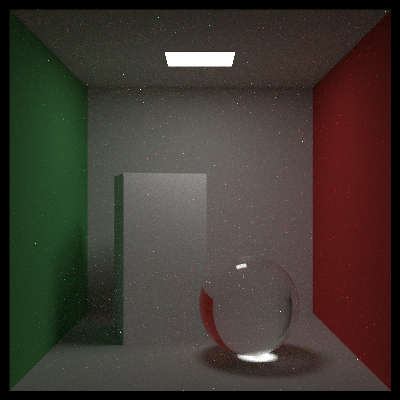
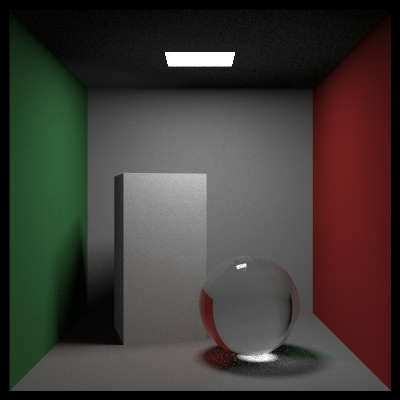
FINAL

diff --git a/RayTracer/src/main.rs b/RayTracer/src/main.rs
@@ -247,37 +247,37 @@ fn cornell_box() {
     // world.addlist(make_box(Point3::new(130.0, 0.0, 65.0), Point3::new(295.0, 165.0, 230.0), white.clone()));
     // world.addlist(make_box(Point3::new(265.0, 0.0, 295.0), Point3::new(430.0, 330.0, 460.0), white));
 
-    let aluminum = Some(Arc::new(material::Metal::new(Vec3::new(0.8, 0.85, 0.88), 0.0)) as Arc<dyn Material + Send + Sync>);
-    let box1 = Arc::new(make_box(Point3::new(0.0, 0.0, 0.0), Point3::new(165.0, 330.0, 165.0), aluminum));
-    let box1 = Arc::new(RotateY::new(box1, 15.0));
-    let box1 = Arc::new(Translate::new(box1, Vec3::new(265.0, 0.0, 295.0)));
-    world.add(box1);
-
-    let box2 = Arc::new(make_box(Point3::new(0.0, 0.0, 0.0), Point3::new(165.0, 165.0, 165.0), white.clone()));
-    let box2 = Arc::new(RotateY::new(box2, -18.0));
-    let box2 = Arc::new(Translate::new(box2, Vec3::new(130.0, 0.0, 65.0)));
-    world.add(box2);
-
-    // // Box
-    // let box1 = Arc::new(make_box(Point3::new(0.0, 0.0, 0.0), Point3::new(165.0, 330.0, 165.0), white.clone()));
+    // let aluminum = Some(Arc::new(material::Metal::new(Vec3::new(0.8, 0.85, 0.88), 0.0)) as Arc<dyn Material + Send + Sync>);
+    // let box1 = Arc::new(make_box(Point3::new(0.0, 0.0, 0.0), Point3::new(165.0, 330.0, 165.0), aluminum));
     // let box1 = Arc::new(RotateY::new(box1, 15.0));
     // let box1 = Arc::new(Translate::new(box1, Vec3::new(265.0, 0.0, 295.0)));
     // world.add(box1);
 
-    // // Glass Sphere
-    // let glass = Some(Arc::new(material::Dielectric::new(1.5)) as Arc<dyn Material + Send + Sync>);
-    // world.add(Arc::new(sphere::Sphere::new(Point3::new(190.0, 90.0, 190.0), 90.0, glass)));
+    // let box2 = Arc::new(make_box(Point3::new(0.0, 0.0, 0.0), Point3::new(165.0, 165.0, 165.0), white.clone()));
+    // let box2 = Arc::new(RotateY::new(box2, -18.0));
+    // let box2 = Arc::new(Translate::new(box2, Vec3::new(130.0, 0.0, 65.0)));
+    // world.add(box2);
+
+    // Box
+    let box1 = Arc::new(make_box(Point3::new(0.0, 0.0, 0.0), Point3::new(165.0, 330.0, 165.0), white.clone()));
+    let box1 = Arc::new(RotateY::new(box1, 15.0));
+    let box1 = Arc::new(Translate::new(box1, Vec3::new(265.0, 0.0, 295.0)));
+    world.add(box1);
+
+    // Glass Sphere
+    let glass = Some(Arc::new(material::Dielectric::new(1.5)) as Arc<dyn Material + Send + Sync>);
+    world.add(Arc::new(sphere::Sphere::new(Point3::new(190.0, 90.0, 190.0), 90.0, glass)));
 
     let mut lights = hit_list::HittableList::new();
     let m: Option<Arc<dyn Material + Send + Sync>> = None;
     lights.add(Arc::new(quad::Quad::new(Point3::new(343.0, 554.0, 332.0), Vec3::new(-130.0, 0.0, 0.0), Vec3::new(0.0, 0.0, -105.0), m.clone())));
-    // lights.add(Arc::new(sphere::Sphere::new(Point3::new(190.0, 90.0, 190.0), 90.0, m)));
+    lights.add(Arc::new(sphere::Sphere::new(Point3::new(190.0, 90.0, 190.0), 90.0, m)));
 
     let width = 400;
     let height = 400;
     let mut cam = camera::Camera::new(height, width);
 
-    cam.samples_per_pixel = 100;
+    cam.samples_per_pixel = 1000;
     cam.max_depth = 50;
     cam.background = Vec3::new(0.0, 0.0, 0.0);
 

diff --git a/RayTracer/src/ray.rs b/RayTracer/src/ray.rs
@@ -66,30 +66,33 @@ impl Ray {
             return color_from_emission;
         }
 
-        // if srec.skip_pdf {
-        //     return srec.attenuation * srec.skip_pdf_ray.ray_color(background, depth - 1, world, lights);
-        // }
+        if srec.skip_pdf {
+            return srec.attenuation * srec.skip_pdf_ray.ray_color(background, depth - 1, world, lights);
+        }
 
-        // let light_ptr = Arc::new(HittablePdf::new(lights.clone(), rec.p));
-        // let p = MixturePdf::new(light_ptr, srec.pdf_ptr);
+        let light_ptr = Arc::new(HittablePdf::new(lights.clone(), rec.p));
+        let p = MixturePdf::new(light_ptr, srec.pdf_ptr);
 
-        // let scattered = Ray::new(rec.p, p.generate(), self.time());
-        // let pdf_val = p.value(scattered.direction());
-
-        // let scattering_pdf = mat.scattering_pdf(self, &rec, &scattered);
-
-        // let sample_color = scattered.ray_color(background, depth - 1, world, lights);
-        // let color_from_scatter = (srec.attenuation * scattering_pdf * sample_color) / pdf_val;
-
-
-        let light_pdf = HittablePdf::new(lights.clone(), rec.p);
-        let scattered = Ray::new(rec.p, light_pdf.generate(), self.time());
-        let pdf_val = light_pdf.value(scattered.direction());
+        let scattered = Ray::new(rec.p, p.generate(), self.time());
+        let pdf_val = p.value(scattered.direction());
 
         let scattering_pdf = mat.scattering_pdf(self, &rec, &scattered);
 
         let sample_color = scattered.ray_color(background, depth - 1, world, lights);
         let color_from_scatter = (srec.attenuation * scattering_pdf * sample_color) / pdf_val;
+
+        
+        // let p0 = Arc::new(HittablePdf::new(lights.clone(), rec.p));
+        // let p1 = Arc::new(CosinePdf::new(rec.normal));
+        // let mixed_pdf = MixturePdf::new(p0, p1);
+
+        // let scattered = Ray::new(rec.p, mixed_pdf.generate(), self.time());
+        // let pdf_val = mixed_pdf.value(scattered.direction());
+
+        // let scattering_pdf = mat.scattering_pdf(self, &rec, &scattered);
+
+        // let sample_color = scattered.ray_color(background, depth - 1, world, lights);
+        // let color_from_scatter = (srec.attenuation * scattering_pdf * sample_color) / pdf_val;
 
         color_from_emission + color_from_scatter
     }

diff --git a/RayTracer/src/material.rs b/RayTracer/src/material.rs
@@ -10,12 +10,23 @@ use std::sync::Arc;
 // use crate::onb::ONB;
 use crate::pdf::{Pdf, CosinePdf, SpherePdf};
 
-#[derive(Clone, Default)]
+#[derive(Clone)]
 pub struct ScatterRecord {
     pub attenuation: Color,
-    pub pdf_ptr: Option<Arc<dyn Pdf + Send + Sync>>,
+    pub pdf_ptr: Arc<dyn Pdf + Send + Sync>,
     pub skip_pdf: bool,
     pub skip_pdf_ray: Ray,
+}
+
+impl Default for ScatterRecord {
+    fn default() -> Self {
+        ScatterRecord {
+            attenuation: Color::zero(),
+            pdf_ptr: Arc::new(SpherePdf::new()),
+            skip_pdf: false,
+            skip_pdf_ray: Ray::new(Vec3::zero(), Vec3::zero(), 0.0),
+        }
+    }
 }
 
 pub trait Material: Any {
@@ -54,7 +65,7 @@ impl Lambertian {
 impl Material for Lambertian {
     fn scatter(&self, _r_in: &Ray, rec: &HitRecord, scatter_rec: &mut ScatterRecord) -> bool {
         scatter_rec.attenuation = self.tex.value(rec.u, rec.v, &rec.p);
-        scatter_rec.pdf_ptr = Some(Arc::new(CosinePdf::new(rec.normal)));
+        scatter_rec.pdf_ptr = Arc::new(CosinePdf::new(rec.normal));
         scatter_rec.skip_pdf = false;
         true
     }
@@ -86,7 +97,6 @@ impl Material for Metal {
         let reflected = reflected.unit() + (self.fuzz * Vec3::random_unit_vector());
 
         scatter_rec.attenuation = self.albedo;
-        scatter_rec.pdf_ptr = None;
         scatter_rec.skip_pdf = true;
         scatter_rec.skip_pdf_ray = Ray::new(rec.p, reflected, r_in.time());
 
@@ -116,7 +126,6 @@ impl Dielectric {
 impl Material for Dielectric {
     fn scatter(&self, r_in: &Ray, rec: &HitRecord, scatter_rec: &mut ScatterRecord) -> bool {
         scatter_rec.attenuation = Color::new(1.0, 1.0, 1.0);
-        scatter_rec.pdf_ptr = None;
         scatter_rec.skip_pdf = true;
         let ri = if rec.front_face { 1.0 / self.refraction_index } else { self.refraction_index };
 
@@ -190,7 +199,7 @@ impl Isotropic {
 impl Material for Isotropic {
     fn scatter(&self, _r_in: &Ray, rec: &HitRecord, scatter_rec: &mut ScatterRecord) -> bool {
         scatter_rec.attenuation = self.tex.value(rec.u, rec.v, &rec.p);
-        scatter_rec.pdf_ptr = Some(Arc::new(SpherePdf::new()));
+        scatter_rec.pdf_ptr = Arc::new(SpherePdf::new());
         scatter_rec.skip_pdf = false;
         true
     }

diff --git a/RayTracer/src/pdf.rs b/RayTracer/src/pdf.rs
@@ -74,31 +74,25 @@ impl Pdf for HittablePdf {
 
 pub struct MixturePdf {
     p0: Arc<dyn Pdf + Sync + Send>,
-    p1: Option<Arc<dyn Pdf + Sync + Send>>,
+    p1: Arc<dyn Pdf + Sync + Send>,
 }
 
 impl MixturePdf {
-    pub fn new(p0: Arc<dyn Pdf + Sync + Send>, p1: Option<Arc<dyn Pdf + Sync + Send>>) -> Self {
+    pub fn new(p0: Arc<dyn Pdf + Sync + Send>, p1: Arc<dyn Pdf + Sync + Send>) -> Self {
         MixturePdf { p0, p1 }
     }
 }
 
 impl Pdf for MixturePdf {
     fn value(&self, direction: &Vec3) -> f64 {
-        match &self.p1 {
-            Some(p1) => 0.5 * self.p0.value(direction) + 0.5 * p1.value(direction),
-            None => self.p0.value(direction),
-        }
+        0.5 * self.p0.value(direction) + 0.5 * self.p1.value(direction)
     }
 
     fn generate(&self) -> Vec3 {
         if rand::random::<f64>() < 0.5 {
             self.p0.generate()
         } else {
-            match &self.p1 {
-                Some(p1) => p1.generate(),
-                None => self.p0.generate(),
-            }
+            self.p0.generate()
         }
     }
 }

diff --git a/Reports/week2.md b/Reports/week2.md
@@ -1,0 +1,40 @@
+# Week2
+
+## Ray Tracing in One Weekend
+
+* 设置viewport，找到左上角.
+* 设ray的颜色线性变化，渲染得到渐变的图.
+* 通过直线与圆的关系在画面中加入一个圆. 根据法线设置球的颜色.
+* 新建hit.rs，存储可以被击中的物体(hittable)，并标记击中的方向(HitRecord).
+* 新建球的类，sphere.rs(继承hittable的trait).
+* 新建hit_list.rs，记录所有可以被击中的物体.
+* 新建interval.rs，处理区间操作.
+* 将设置窗口、渲染图片单独整理为camera结构体的impl，新建camera.rs.
+* 通过多重取样抗锯齿化.
+![before](../RayTracer/output/alias.jpg)
+![after](../RayTracer/output/anti_alias.jpg)  
+
+* 用random vector处理漫反射. 得到first render!
+![first render](../RayTracer/output/first_sphere.jpg)
+
+* 控制光线反射次数，提高效率.
+* 解决精度误差引起的shadow acne.
+* 根据Lambertian分布处理反射光.
+* 调整反射光光强.
+* gammar correction. 转换到gamma空间.
+* 新建material.rs. 记录球的材质. 进行相应修改.
+* material中实现lambertian(漫反射材质)，metal(镜像反射)，dielectric(折射)三种.
+* metal需处理fuzziness.
+* dielectric处理全反射. use Schlick Approximation.
+* 空心玻璃球.
+* 调整相机视角.
+* 调整相机位置和方向.
+![camera positioning](../RayTracer/output/positionable_camera.jpg)  
+
+* 考虑光圈. Defocus blur.
+![defocus blur](../RayTracer/output/defocus_blur.jpg)
+
+* Final Render!
+![Final1](../RayTracer/output/RayTracingOneWeekFinal.jpg)
+
+commit: 538af9a

diff --git a/Reports/week3.md b/Reports/week3.md
@@ -1,0 +1,35 @@
+# week3
+
+## Ray Tracing: The Next Week
+
+* 根据时间渲染动态物体的模糊.
+![moving balls](../RayTracer/output/moving_balls.jpg)  
+
+* 增加AABB和bvh，运行速度显著提升.
+* 新建texture.rs，渲染纹理.
+![checkered sphere](../RayTracer/output/checkered_spheres.jpg)
+
+* 新建rtw.rs，导入图片. 连接stb库，包装stb_image.h，成功让rust使用c头文件.
+  * fix: 直接用opencv::imgcodecs::imread.
+* 加入perlin noise. Hermitian Smoothing.
+![perlin noise](../RayTracer/output/perlin.jpg)
+![marble texture](../RayTracer/output/perlin2.jpg)
+
+* terbulence.
+* 新增quad类.
+* 新增light emitting material.
+![we have lights!](../RayTracer/output/diffuse_light.jpg)
+
+* 渲染cornell box.
+![cornell box](../RayTracer/output/cornell_box.jpg)
+
+* move and rotate box.
+* add volumes.
+![smoke boxes](../RayTracer/output/smoke_cornell.jpg)
+
+* final picture.
+![All objects in one picture](../RayTracer/output/FinalImage.jpg)
+
+* 实现多线程.
+
+commit: e77d4ecb1b

diff --git a/Reports/week4.md b/Reports/week4.md
@@ -1,0 +1,22 @@
+# week 4
+
+## Ray Tracing: The Rest of Your Life
+
+- 通过蒙特卡罗方法取样. 降低噪声.
+![improved cornell box picture](../RayTracer/output/RestOfYourLife1.jpg)
+
+- 实现各种probability density function.
+- 整合pdf类.
+- 单独处理lights的不同密度的取样.
+![lights sample](../RayTracer/output/sample_light.jpg)
+p.s. 这两张图中大盒子是黑的，因为是后期重新渲染的图，方便起见，直接使用了“不反光的金属”材质.
+
+- 实现物体和光线的 mixture sample.
+![mixture pdf](../RayTracer/output/mixture_sample.jpg)
+
+- 实现任意材质的pdf！铝制镜面.
+![aluminum](../RayTracer/output/aluminum.jpg)
+
+- 实现球体的pdf. 渲染玻璃球.
+![glass ball](../RayTracer/output/Final3.jpg)
+

diff --git a/Reports/week1.md b/Reports/week1.md
@@ -10,12 +10,11 @@
 
 * 使用MSAA抗锯齿化后明显改善
 
-![before](1.jpg)
+![before](./fig/1.jpg)
 
-![after](2.jpg)
+![after](./fig/2.jpg)
 
 * MSAA抗锯齿化之后三角形边缘会有黑色，应该是用整点标识pixel时的细节实现问题
-* FXAA
 
 ### Task 3
 
@@ -23,3 +22,13 @@
 
 github repository: git@github.com:icycozy/G-RT.git
 commit: e0f3916
+
+## 7.18 update
+
+### Task2
+
+FXAA 抗锯齿化: 效果不明显.
+
+### Task3
+
+
